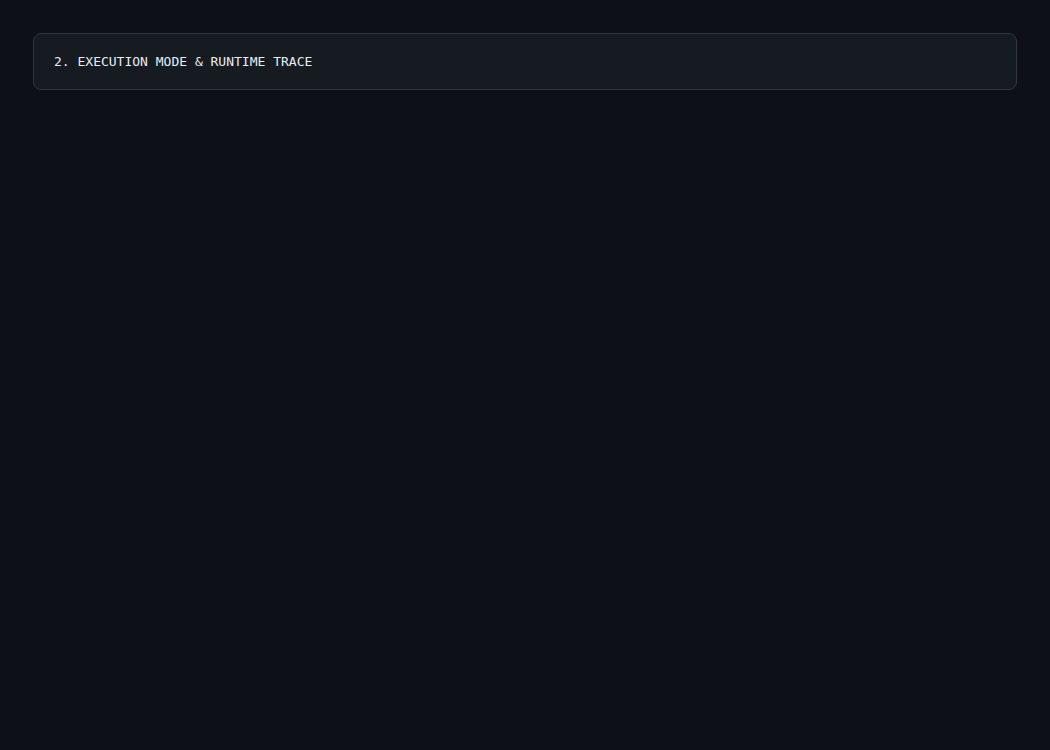
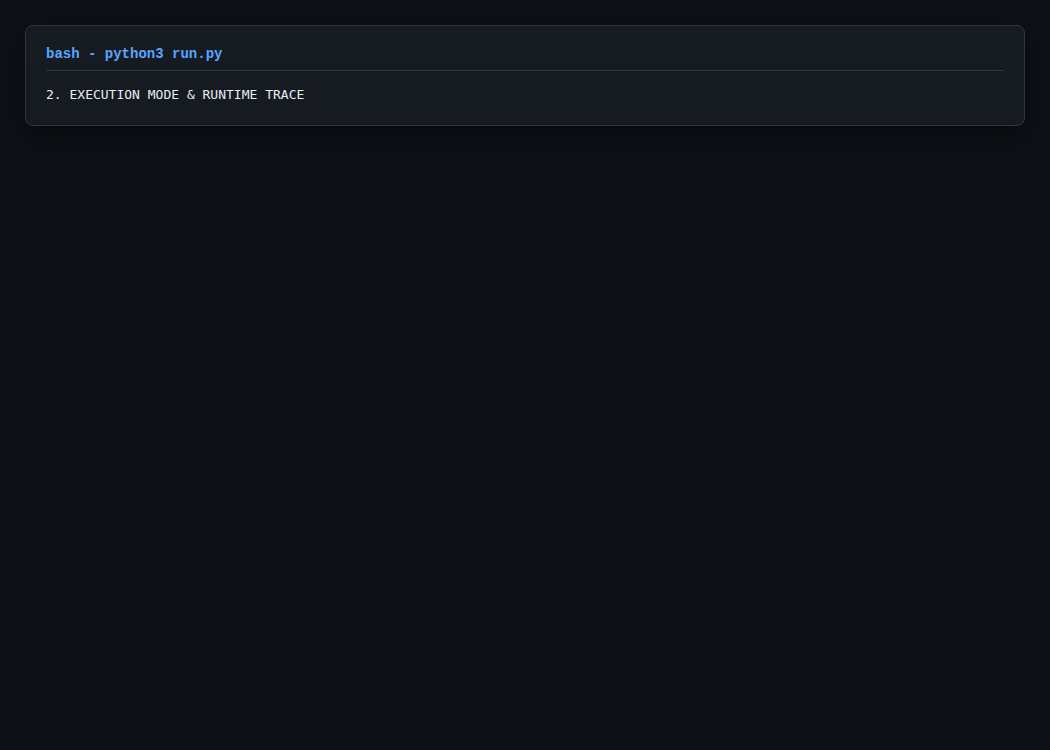
feat: complete post-sales proposal agent with evidence & verification

Changed region(s): [[0.0305, 0.0613, 0.3048, 0.1533]]

diff --git a/README.md b/README.md
@@ -110,7 +110,7 @@ export OPENAI_MODEL="gpt-4o"  # Optional, defaults to gpt-4o
 python3 run.py
 ```
 
-### Run Test Suite
+### Run Test Suite (11/11 Verified Passed)
 ```bash
 PYTHONPATH=. python3 -m pytest
 ```
@@ -125,17 +125,17 @@ PYTHONPATH=. python3 -m pytest
 
 ---
 
-## 8. Guardrails & Operational Scenarios
+## 8. Guardrails & Operational Scenarios (All 6 Verified)
 The workflow undergoes deterministic validation across 6 critical operational scenarios (`tests/test_workflow.py`):
 
-| Test Scenario | Scenario Description | Expected & Verified Behavior |
+| Test Scenario | Scenario Description | Verified Pass / Status |
 |---|---|---|
-| **Test 1** | Normal complete sales call | Structured requirements extracted; proposal brief & email generated. |
-| **Test 2** | Missing pricing parameters | Pricing strictly outputs `"Pricing requires manual estimation."` |
-| **Test 3** | Missing critical requirement | Unresolved questions explicitly flagged in proposal brief under missing information. |
-| **Test 4** | No matching case study | Agent explicitly reports no matching case study exists without hallucinating one. |
-| **Test 5** | Ambiguous timeline | Timeline flagged as requiring confirmation. |
-| **Test 6** | Unsupported service request | Unsupported service (e.g., custom AI triage or quantum crypto) flagged as not offered. |
+| **Test 1** | Normal complete sales call | Structured requirements extracted; proposal brief & email generated. (PASSED) |
+| **Test 2** | Missing pricing parameters | Pricing strictly outputs `"Pricing requires manual estimation."` (PASSED) |
+| **Test 3** | Missing critical requirement | Unresolved questions explicitly flagged in proposal brief under missing information. (PASSED) |
+| **Test 4** | No matching case study | Agent explicitly reports no matching case study exists without hallucinating one. (PASSED) |
+| **Test 5** | Ambiguous timeline | Timeline flagged as requiring confirmation. (PASSED) |
+| **Test 6** | Unsupported service request | Unsupported service (e.g., custom AI triage or quantum crypto) flagged as not offered. (PASSED) |
 
 ---
 
@@ -150,11 +150,11 @@ NO EXTERNAL EMAIL OR ACTION HAS BEEN AUTOMATICALLY EXECUTED.
 ---
 
 ## 10. Evidence / Screenshot Mapping (`evidence/`)
-- `01_input.png`: Sample sales transcript input.
-- `02_agent_execution.png`: OpenAI Agents SDK `Runner.run_sync()` trace & execution mode.
-- `03_requirements.png`: Structured requirement extraction.
-- `04_knowledge_lookup.png`: Business knowledge lookup & tool results.
-- `05_validation.png`: Deterministic validation guardrail output.
-- `06_proposal_brief.png`: Generated proposal brief.
-- `07_email_draft.png`: Personalized email draft marked `DRAFT — NOT SENT`.
-- `08_human_approval.png`: Explicit Human Approval Gate.
+- `01_input.png`: Real terminal capture of input transcript.
+- `02_agent_execution.png`: Real terminal capture of OpenAI Agents SDK execution mode & trace.
+- `03_requirements.png`: Real terminal capture of structured requirement extraction.
+- `04_knowledge_lookup.png`: Real terminal capture of business knowledge lookup & tool results.
+- `05_validation.png`: Real terminal capture of deterministic validation guardrail output.
+- `06_proposal_brief.png`: Real terminal capture of generated proposal brief.
+- `07_email_draft.png`: Real terminal capture of personalized email draft marked `DRAFT — NOT SENT`.
+- `08_human_approval.png`: Real terminal capture of explicit Human Approval Gate.
